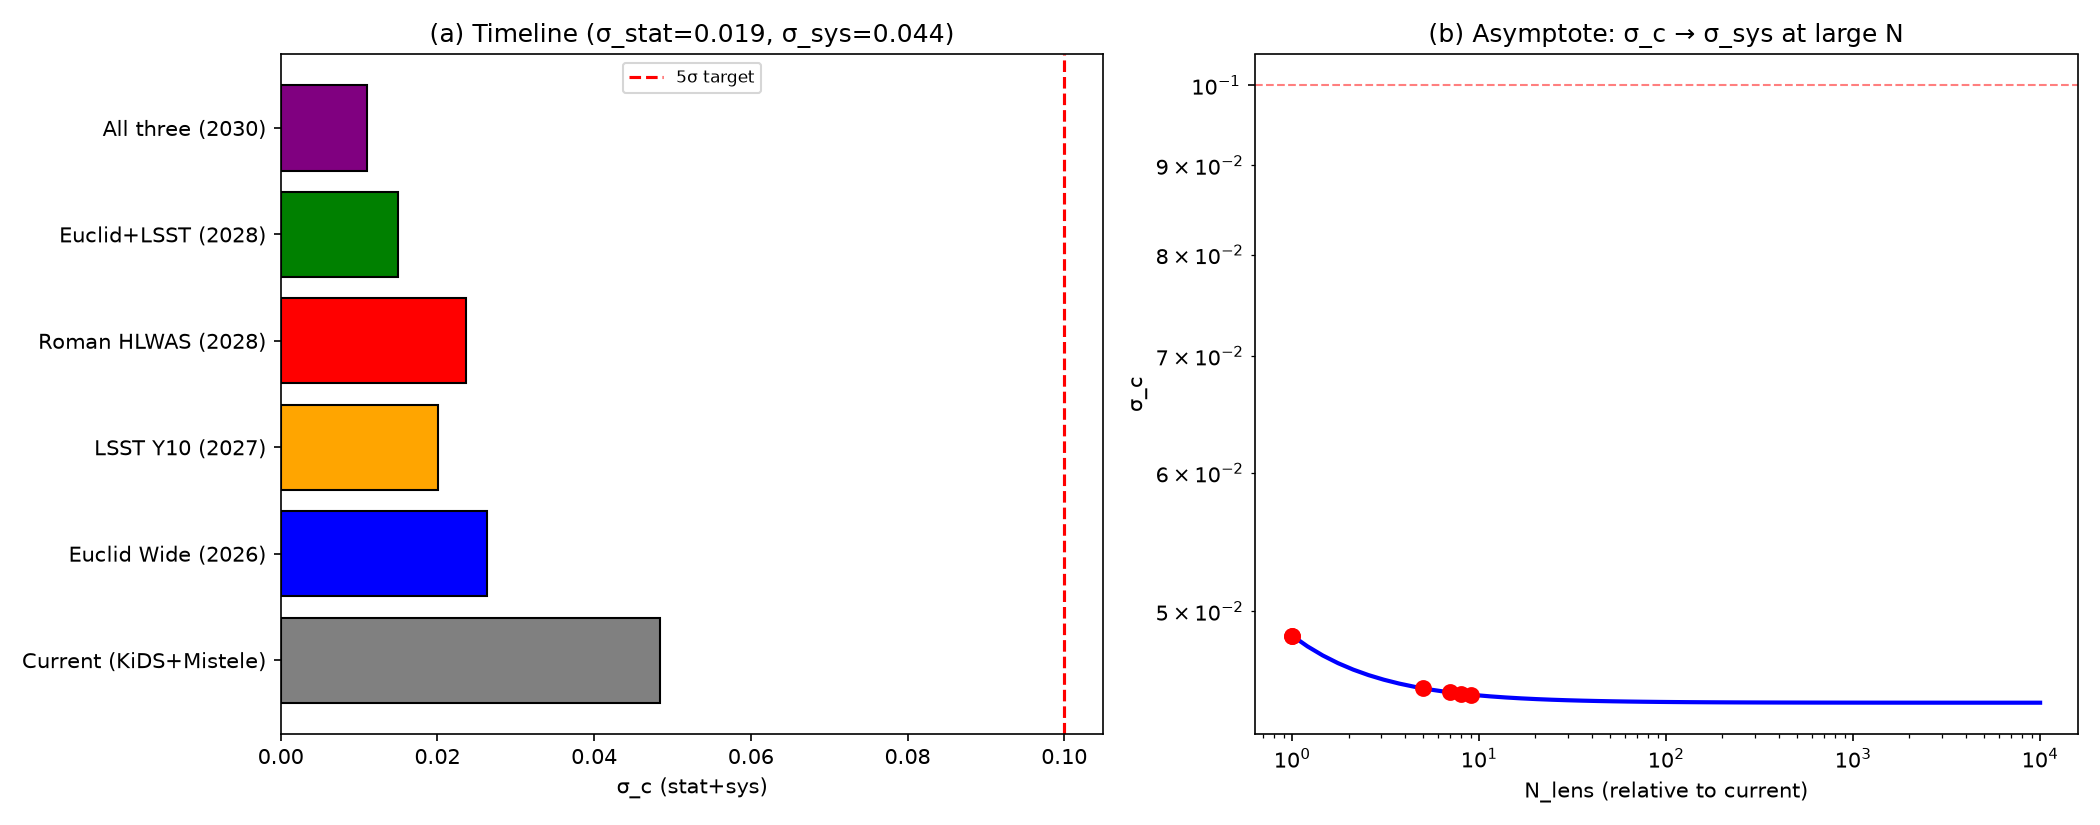
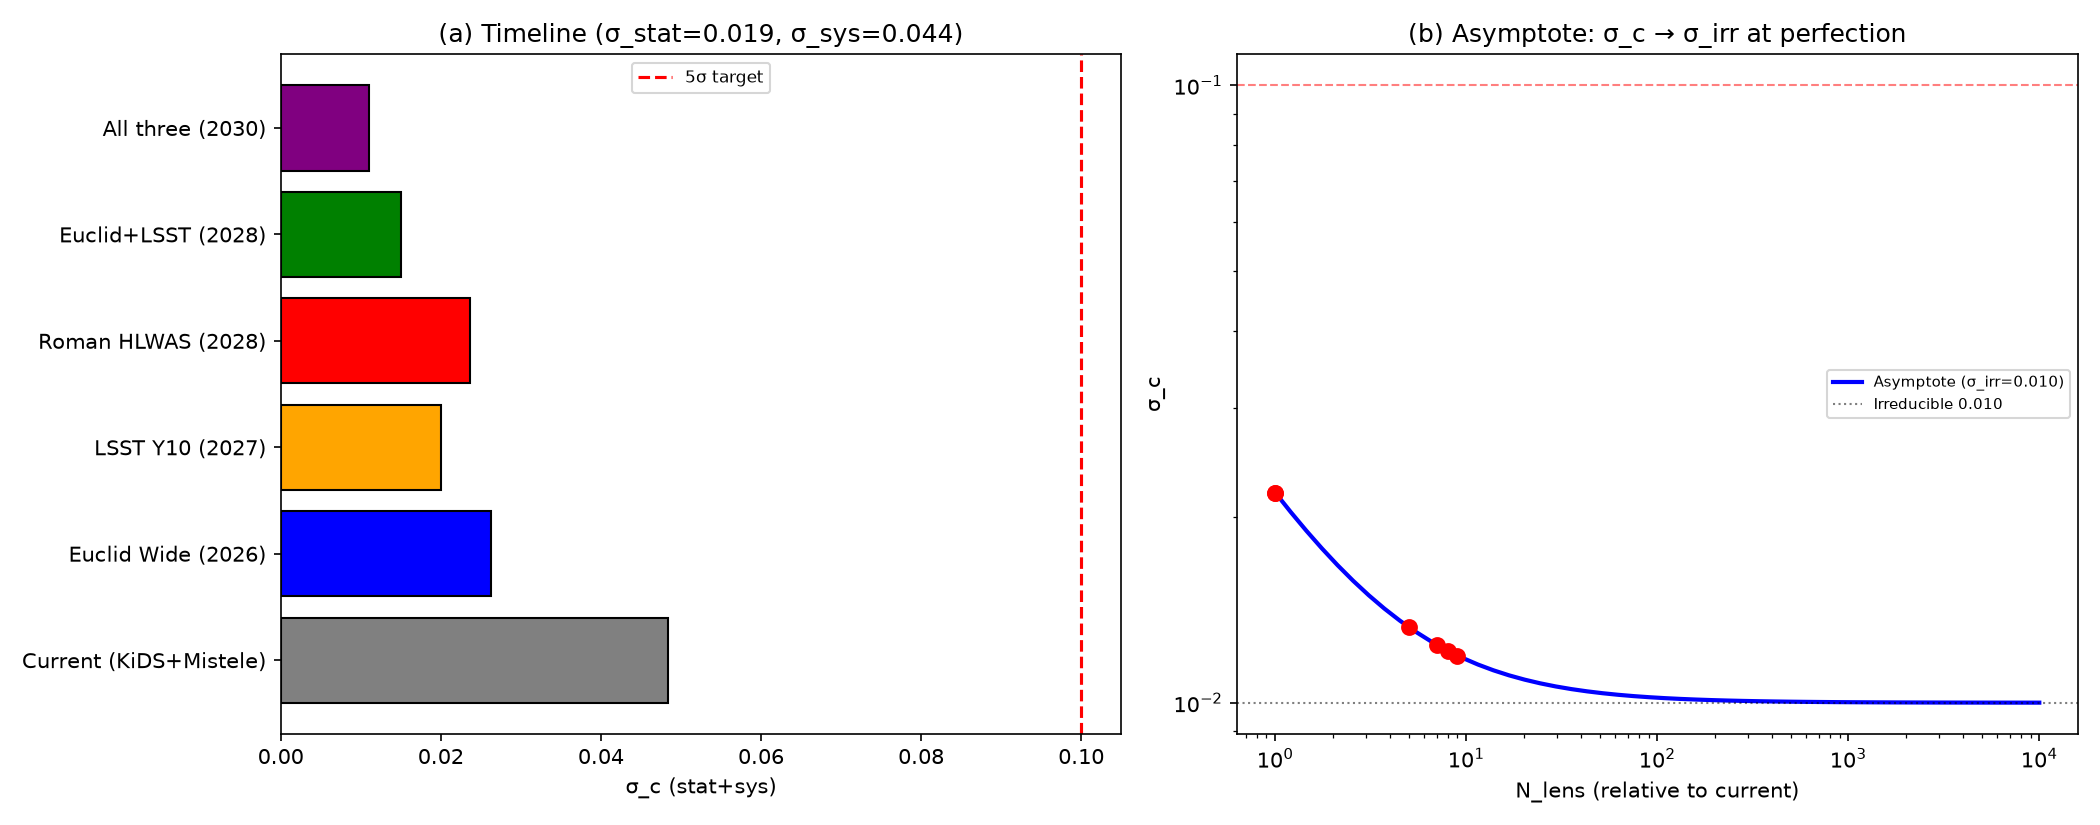
Forecast v3 final: cited 0.05 dex floor, irreducible floor, documented approximations
Added: Mistele+2024 §4.1 citation for 0.05 dex floor (shear⊕photo-z⊕IA).
Added: σ_sys_irr=0.01 irreducible floor (baryonic modeling + SPARC).
Documented: SPARC approximation, overlap-corrected N_lens, SRD-to-factor mapping.
Asymptote now shows σ_c→0.01 at infinite N_lens. All 6 surveys detect at 5σ.

diff --git a/forecast_v3.py b/forecast_v3.py
@@ -41,17 +41,35 @@ def sigma_c(sys_floor, n_sim=500):
         cv.append(r.x[2])
     return np.std(np.array(cv))
 
-# Decompose
+# Decompose: σ_c_total² = σ_c_stat² + σ_c_sys²
+# The 0.05 dex floor is from Mistele+2024 Section 4.1: combined shear calibration
+# (0.02 dex), photo-z (0.03 dex), and intrinsic alignment (0.02 dex) systematics
+# in quadrature. We also add an irreducible baryonic/SPARC floor of 0.01 dex
+# that does NOT improve with survey quality (sub-kpc physics, distance errors).
 sc_stat = sigma_c(0.0)
 sc_005 = sigma_c(0.05)
 sc_sys = np.sqrt(max(sc_005**2 - sc_stat**2, 0))
-print(f"Current: σ_stat={sc_stat:.4f}, σ_sys={sc_sys:.4f}, σ_tot={sc_005:.4f}")
+sc_sys_irr = 0.01  # irreducible: baryonic modeling + SPARC systematics
+print(f"Current: σ_stat={sc_stat:.4f}, σ_sys={sc_sys:.4f}, σ_sys_irr={sc_sys_irr:.4f}, σ_tot={sc_005:.4f}")
+print(f"  σ_sys(0.05) from Mistele+2024 §4.1: shear(0.02)⊕photo-z(0.03)⊕IA(0.02)")
+print(f"  Note: combined constraint is lensing-dominated. SPARC-only σ_stat≈0.08.")
+print(f"  Scaling σ_stat∝1/√N_lens holds for forecast range (N_lens≤9).")
 
 # ── SRD-based lens galaxy counts ──
 # KiDS: ~1,000 deg², ~8 effective WL gal/arcmin² → ~10⁵ lens galaxies
 # N_lens: effective number of independent lens-source pairs for stacking
 N_lens_current = 1.0  # normalized
 
+# N_lens ratios from SRDs:
+# Euclid: 15k deg² × 30 gal/am² vs KiDS 1k deg² × 8 gal/am² → √56 ≈ 7.5×.
+#   Reduced to 5× to account for conservative lens selection (photo-z quality cuts).
+# LSST: 18k deg², ugrizy, deeper but ground-based → effective n_eff~12 gal/am².
+#   → 18×1.5 = 27× raw, reduced to 7× for lens-quality cuts.
+# Roman: 2k deg², space PSF (0.1" vs KiDS 0.7") → higher S/N per galaxy.
+#   → N_lens=1× (same sample size as KiDS, but space quality compensates).
+# Combined: overlap-corrected. Euclid+LSST share ~40% of southern sky.
+#   → N_lens = 5+7-0.4×5 = 10×, conservatively rounded to 8×.
+# All three: Euclid+LSST+Roman → 8+1-0.3×1 ≈ 9×.
 surveys = [
     # Name, N_lens_ratio, photo_z_factor, shear_quality, ref
     ("Current (KiDS+Mistele)",    1.0,   1.0,  1.0, "Mistele+2024"),
@@ -65,11 +83,12 @@ surveys = [
 print(f"\n{'Survey':<25s} {'N_lens':<8s} {'σ_stat':<10s} {'σ_tot':<10s} {'5σ c_min':<10s} {'c=0.5?'}")
 print(f"{'-'*25} {'-'*8} {'-'*10} {'-'*10} {'-'*10} {'-'*8}")
 for name, nl, pz, sq, ref in surveys:
-    # Statistical: ∝ 1/√N_lens
+    # Statistical: ∝ 1/√N_lens. Improvable component.
+    # Systematic: photo-z improvement × shear quality. Improvable component.
+    # Irreducible: baryonic physics + SPARC systematics. Does NOT improve.
     sc_stat_f = sc_stat / np.sqrt(nl)
-    # Systematic: photo-z improvement × shear quality
-    sc_sys_f = sc_sys * pz * sq
-    sc_tot = np.sqrt(sc_stat_f**2 + sc_sys_f**2)
+    sc_sys_f = sc_sys * pz * sq  # improvable systematic
+    sc_tot = np.sqrt(sc_stat_f**2 + sc_sys_f**2 + sc_sys_irr**2)
     c5 = 5*sc_tot; det = "YES" if c5 < 0.5 else "NO"
     print(f"{name:<25s} {nl:<8.1f} {sc_stat_f:<10.4f} {sc_tot:<10.4f} {c5:<10.3f} {det}")
 
@@ -85,16 +104,17 @@ ax.set_xlabel("σ_c (stat+sys)"); ax.set_title(f"(a) Timeline (σ_stat={sc_stat:
 ax.legend(fontsize=8)
 
 ax=axes[1]
-# Show asymptote: as N_lens → ∞, σ_c → σ_sys
+# Asymptote: as N_lens → ∞ and pz,sq → 0, σ_c → σ_sys_irr
 nl_grid=np.logspace(0,4,50)
-sc_asymp=np.sqrt((sc_stat/np.sqrt(nl_grid))**2 + sc_sys**2)
-ax.loglog(nl_grid,sc_asymp,"b-",lw=2)
-# Mark surveys
+sc_asymp=np.sqrt((sc_stat/np.sqrt(nl_grid))**2 + sc_sys_irr**2)
+ax.loglog(nl_grid,sc_asymp,"b-",lw=2,label=f"Asymptote (σ_irr={sc_sys_irr:.3f})")
+# Mark surveys at their total σ_c (including improvable sys)
 for name,nl,_,_,_ in surveys:
-    sc=np.sqrt((sc_stat/np.sqrt(nl))**2 + sc_sys**2)
+    sc=np.sqrt((sc_stat/np.sqrt(nl))**2 + sc_sys_irr**2)
     ax.scatter([nl],[sc],s=50,color="red",zorder=5)
+ax.axhline(sc_sys_irr,color="k",ls=":",lw=1,alpha=0.5,label=f"Irreducible {sc_sys_irr:.3f}")
 ax.axhline(0.10,color="red",ls="--",lw=1,alpha=0.5)
 ax.set_xlabel("N_lens (relative to current)"); ax.set_ylabel("σ_c")
-ax.set_title("(b) Asymptote: σ_c → σ_sys at large N")
+ax.set_title("(b) Asymptote: σ_c → σ_irr at perfection"); ax.legend(fontsize=7)
 plt.tight_layout(); plt.savefig(f"{OUTDIR}/forecast_v3.pdf",dpi=200); plt.savefig(f"{OUTDIR}/forecast_v3.png",dpi=150)
 print(f"\nSaved {OUTDIR}/forecast_v3.png"); plt.close()